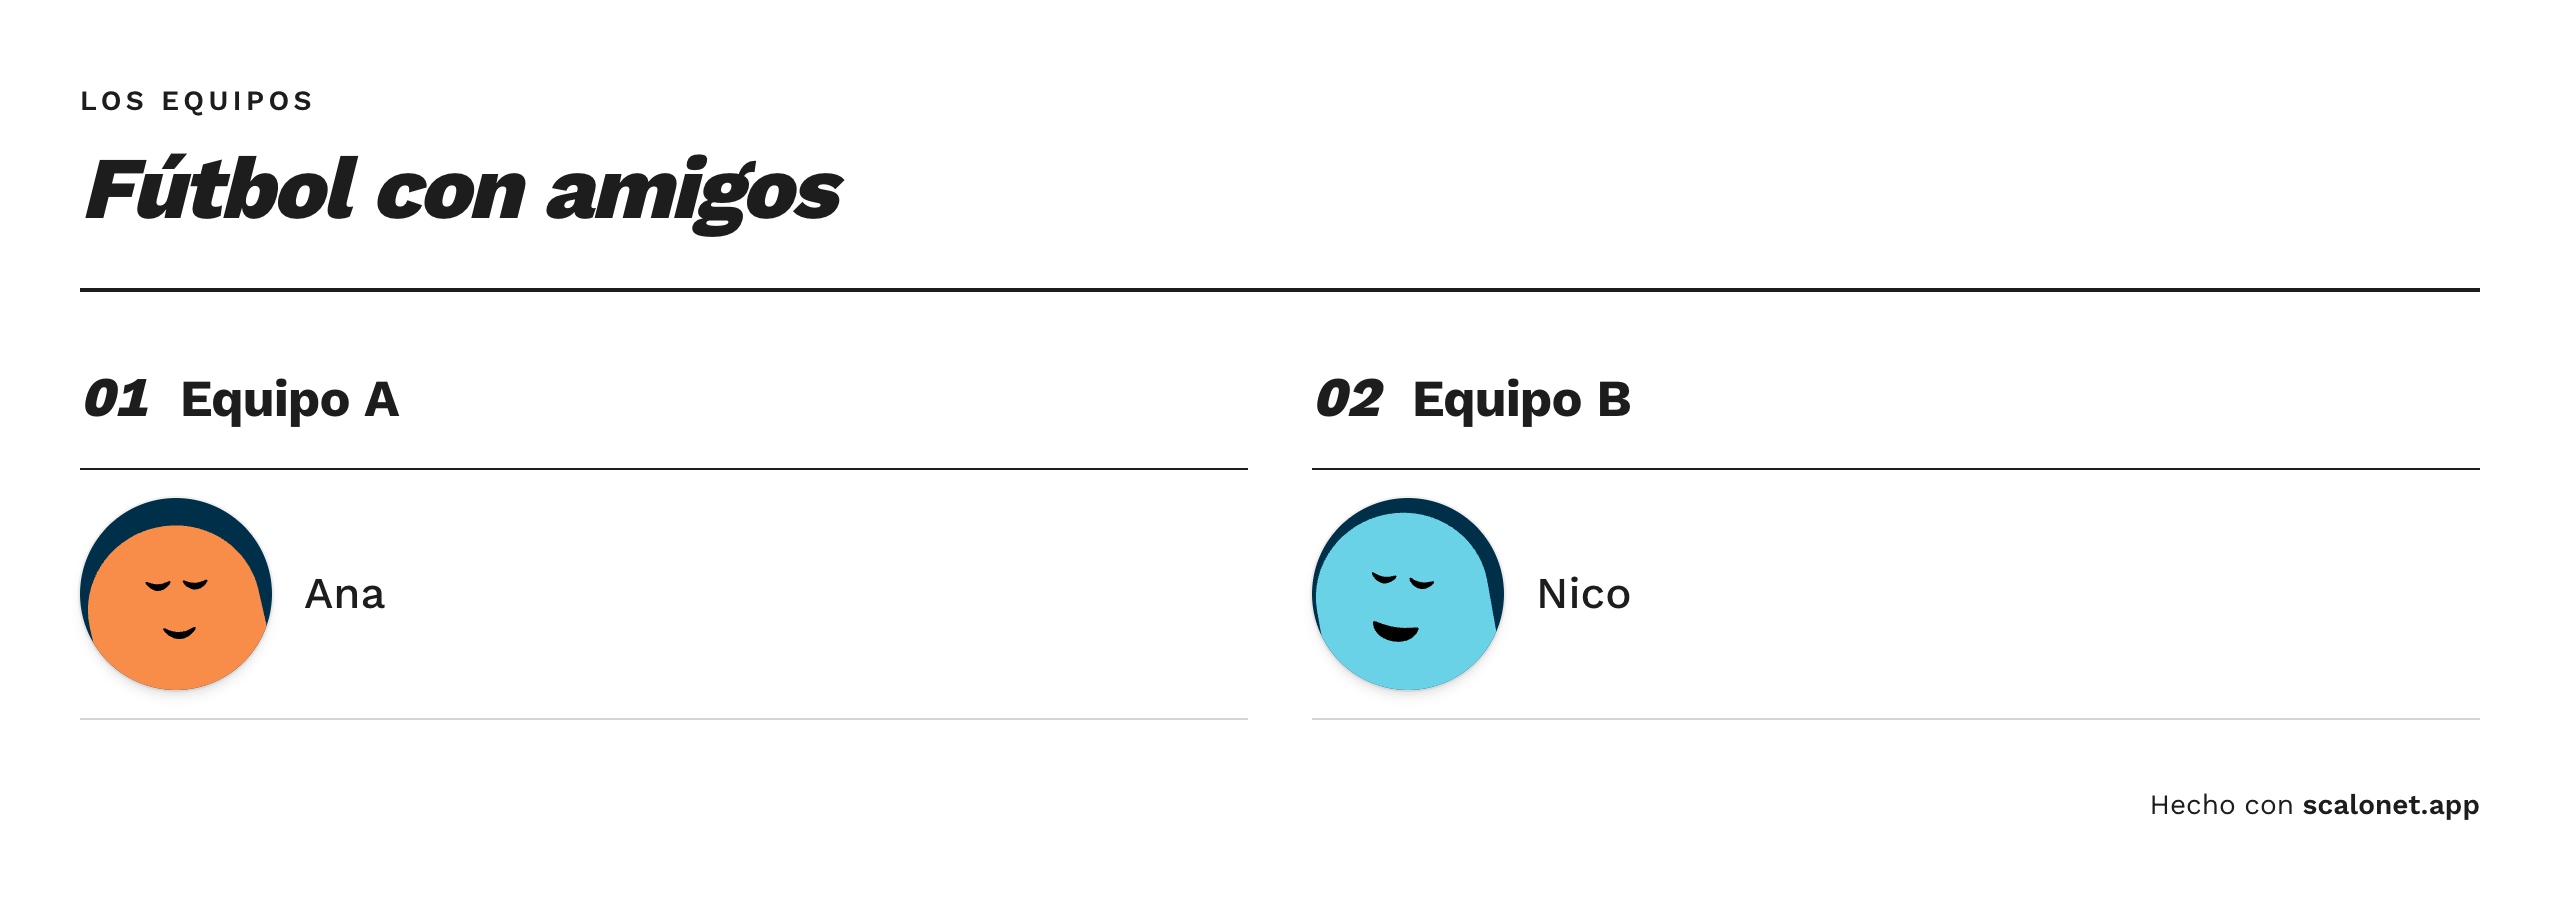
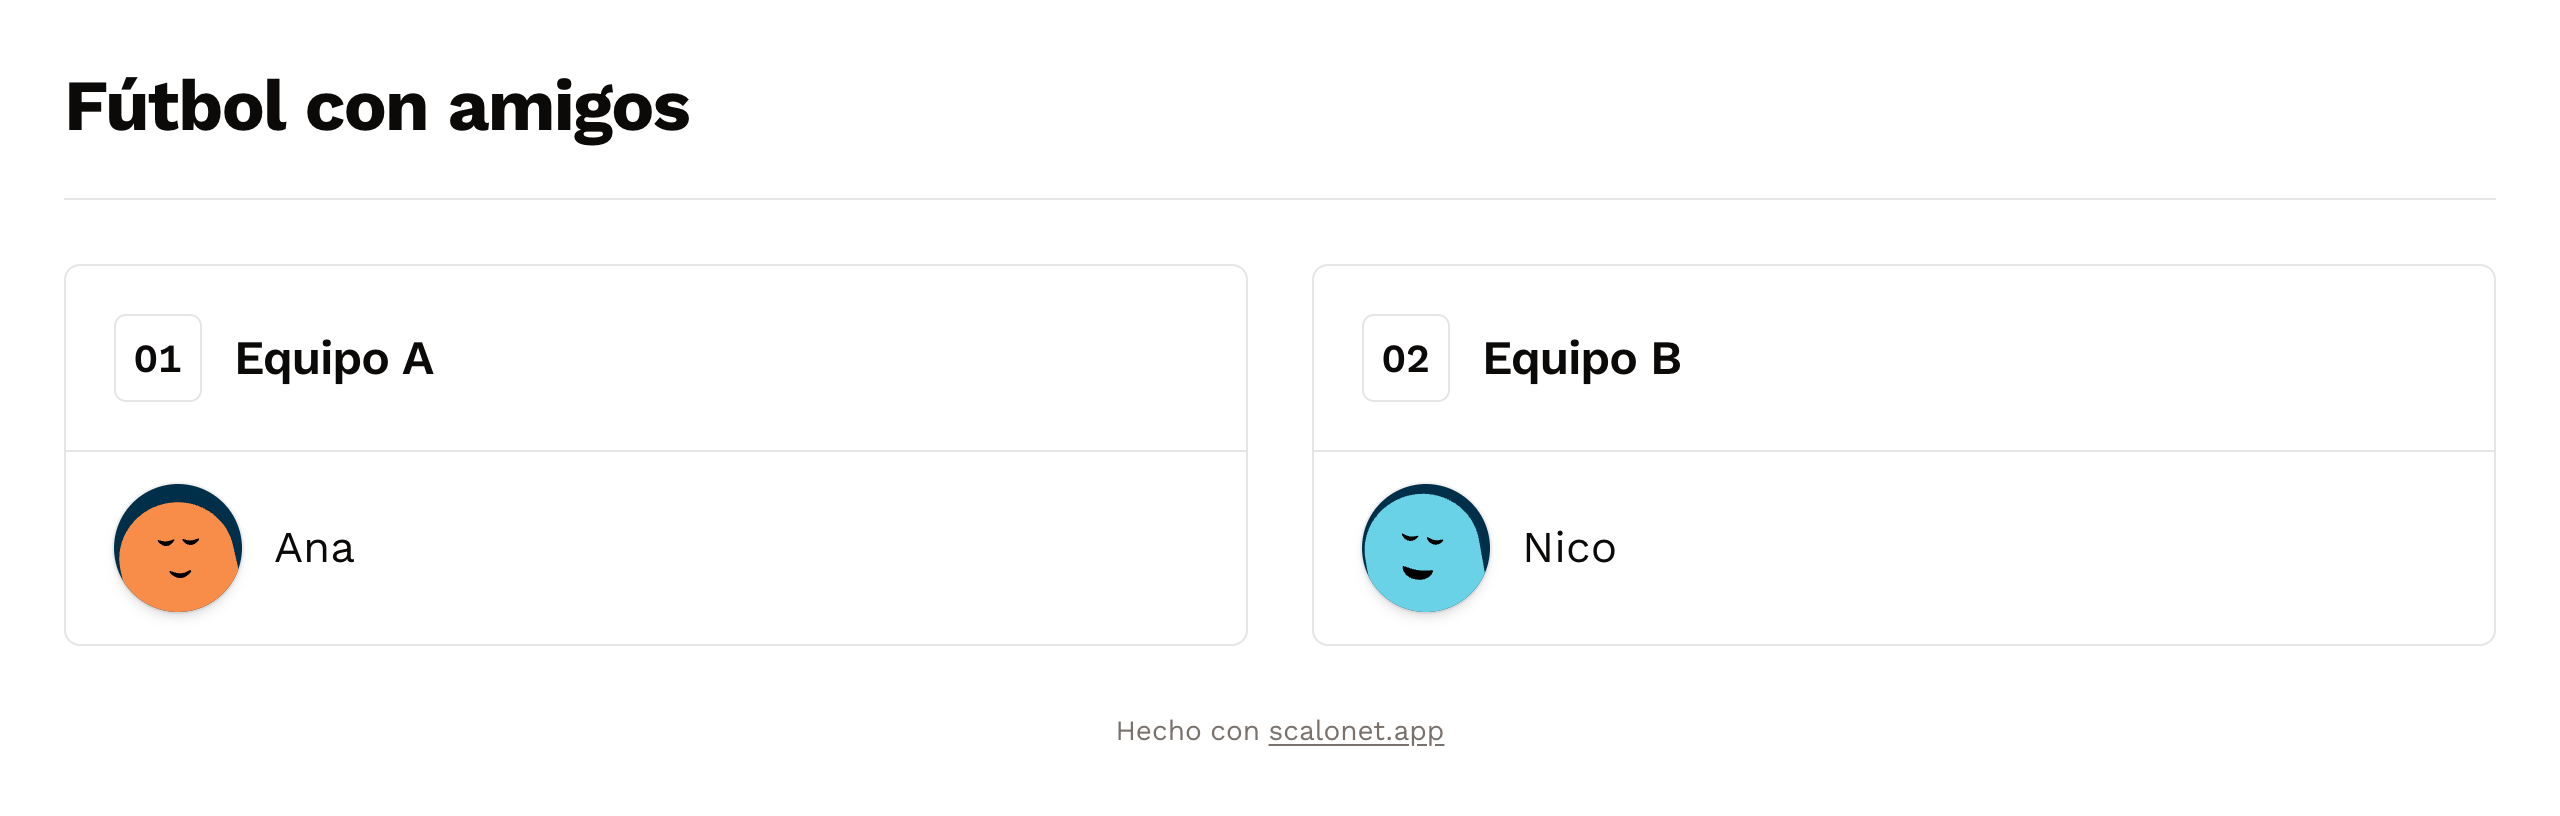
Refresh sporty sample from the refined PNG renderer

diff --git a/utils/image-export-style.ts b/utils/image-export-style.ts
@@ -1,6 +1,6 @@
 export const IMAGE_EXPORT_STYLES = [
   { id: "classic", label: "Clásico", preview: { src: "/images/export-styles/classic.png", width: 2560, height: 830 } },
-  { id: "sporty", label: "Deportivo", preview: { src: "/images/export-styles/sporty.png", width: 2560, height: 906 } },
+  { id: "sporty", label: "Deportivo", preview: { src: "/images/export-styles/sporty.png", width: 2560, height: 816 } },
 ] as const;
 
 export type ImageExportStyle = (typeof IMAGE_EXPORT_STYLES)[number]["id"];
